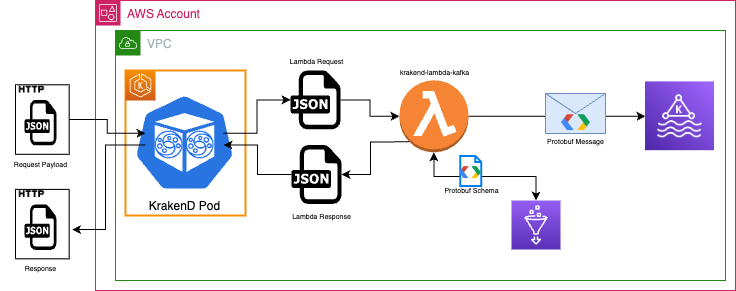
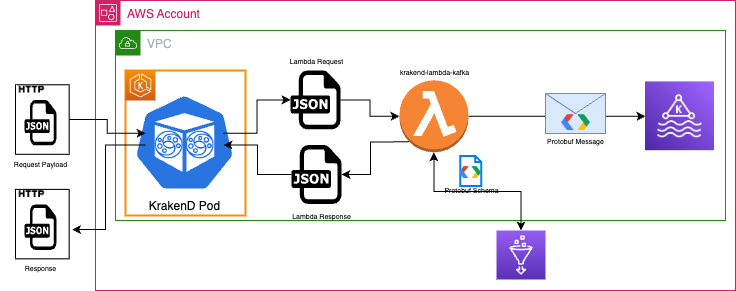
added: documentation

Changed region(s): [[0.1562, 0.6495, 0.9688, 0.9897], [0.6562, 0.5876, 0.7188, 0.6186], [0.5938, 0.5876, 0.625, 0.6186]]

diff --git a/integration_with_krakend.md b/integration_with_krakend.md
@@ -1,3 +1,120 @@
 # Lambda Integration With KrakenD
 
-WIP
+KrakenD offers a native way to connect to different pub/subs providers such as RabbitMQ, AWS SNS/SQS and [Kafka](https://www.krakend.io/docs/backends/pubsub/#kafka)
+however, the actual native implementation does not support authentication and only works with plaintext endpoints in addition to that,
+KrakenD does not offer any way to publish messages with headers and key as can be imagined, those limitations made impossible to use the native Kafka integration.
+
+KrakenD also offers a native way [to integrate with AWS Lambdas ](https://www.krakend.io/docs/backends/lambda/), in this case the sole limitation is that KrakenD will not
+forward the headers, even if there are configured in the `krakend.json` file. In the [documentation ](https://www.krakend.io/docs/backends/lambda/#header-forwarding) they offer a way
+to overcome that restriction which is, create a custom payload where you pass all the required parameters.
+
+For an actual usecase, exposing an endpoint that receives a payload not very conventional is not an option thankfully, KrakenD offers another
+feature that could be used in order to avoid defining not conventional endpoints, this feature is the transformation of incoming request payloads and
+responses using [Lua Scripts](https://www.krakend.io/docs/endpoints/lua/?gclid=Cj0KCQjwoK2mBhDzARIsADGbjeq9zTZd9V0_pKx78lzsCu3UodJiI9ryk9CO_V7Mdgrbf5ejvExV7TgaAjxbEALw_wcB).
+
+The idea is to combine the lambda invocation with the request/response transformations in order to be able to expose a simple POST endpoint and in the following sections
+will be explained how to do it
+
+## Interaction
+The following image shows how KrakenD, the Lambda, the MSK cluster and the GLue registry interact:
+
+![krakend-lambda-kafka](krakend-lambda-kafka.png)
+
+As can be seen, the Lambda, the KrakenD, the MSK  should all be on the same VPC and the AWS Glue registry should be on the same AWS Account as the VPC.
+
+The following are the steps that are going to be executed in order to be able to publish a message in the given MSK Cluster:
+
+1. The KrakenD pod, running in EKS will receive the initial request
+2. Using Lua Scripting will extract the headers, the body and other information in order to produce a request that can be accepted by the lambda. 
+3. KrakenD will invoke the lambda, passing the transformed payload.
+4. The Lambda will receive the payload.
+5. The Lambda will obtain the protobuf schema from AWS GLue.
+6. The Lambda, using the schema, will generate a protobuf version of the original payload.
+7. The Lambda will publish the message adding if present, the headers and/or the key.
+8. The Lambda will return a response.
+9. The KrakenD pod will transform the response into an HTTP response, extracting the HTTP code from the response and return it to the original caller.
+
+## KrakenD Configuration
+
+The following section will explain what should be done in order to integrate the lambda in KrakenD, also remember to take a look into the 
+[documentation](https://www.krakend.io/docs/backends/lambda/#authentication-and-connectivity), in order to be able to understand how to configure the AWS credentials for KrakenD.
+
+### AWS IAM User
+KrakenD needs an IAM user capable of executing lambdas also, that user should have an access key. The policy that should be attached to that user should be like this one:
+
+```
+{
+    "Version": "2012-10-17",
+    "Statement": [
+        {
+            "Effect": "Allow",
+            "Action": [
+                "lambda:InvokeFunction"
+            ],
+            "Resource": "arn:aws:lambda:eu-central-1:${account-id}:${function-name}"
+        }
+    ]
+}
+```
+### Lua Transformation
+
+The file [lambda_req_resp_transformation.lua](lambda_req_resp_transformation.lua) contains all the required to transform the original request into
+a new request that could be used by the Lambda. That file should be added in the same folder were the `krakend.json` file is.
+
+### krakend.json File Configuration
+One single lambda can handle multiple topics, however it is required to configure each topic as a KrakenD endpoint, the following can be used as a blueprint
+for configuring each topic:
+
+```  
+       
+        {
+            "endpoint": "/v1/MyTopic",
+            "method": "POST",
+            "input_headers": [ "message-headers" , "message-key" ],
+            "timeout": "50s",
+            "output_encoding": "json",
+            "backend": [
+                {
+                    "host": [ "ignore" ],
+                    "url_pattern": "/ignore",
+                    "encoding": "json",
+                    "extra_config": {
+                         "backend/lambda": {
+                             "function_name": "actual-function-name",
+                              "region": "eu-central-1",
+                              "max_retries": 1
+                        }
+                    }
+                }
+            ],
+            "extra_config": {
+                 "modifier/lua-proxy": {
+                        "sources": ["lambda_req_resp_transformation.lua"],
+                                "pre": "lambda_request_transformation( request.load() );",
+                                "post": "lambda_response_transformation( response.load() );",
+                                "live": false,
+                                "allow_open_libs": true
+                }
+            }
+        }
+```
+Just replace *MyTopic* for the actual name of the topic and *actual-function-name* for the actual name given to the lambda and that's it,
+nothing else is required to be changed.
+
+Remember that this code should be inside the `endpoint` section of the `krakend.json` file, and it should be one per topic.
+
+### Endpoint Convention
+
+In order to be able to extract the headers, key and topic name from the request it is required to follow the next conventions:
+
+* The path of the endpoint should end with **the actual name of the topic**, respecting upper and lower case characters.
+  * In the previous example, the topic name in Kafka should be MyTopic.
+  * It does not matter what is defined before the topic name, but it is required that the path ends with the actual name.
+* The endpoint will only accept two headers:
+  * `message-headers`: This header will contain the actual headers to attach to the message, at the moment only can handle strings in this format key=value separated by comma, for example:
+    *  `message-headers:mykey=myvalue,otherkey=othervalue`
+  * `message-key`: This header is used to define the key to give to the message, it can only accept one value, for example:
+    * `message-key:mykey`
+
+There is no restriction on the payload, you can send any JSON version of your message but be aware that the Lambda will validate the payload
+against the schema.

diff --git a/README.md b/README.md
@@ -184,4 +184,4 @@ publish messages in kafka though a simple HTTP interface, to know more about how
 configure this integration, please see the [integration_with_krakend.md](integration_with_krakend.md).
 
 It is also possible to use this lambda as a generic way to publish messages in kafka,there is no limitation in
-usage as long as the input structure is used and the deployment configuration is done.
+usage as long as the input structure is used and the deployment configuration is follow.
